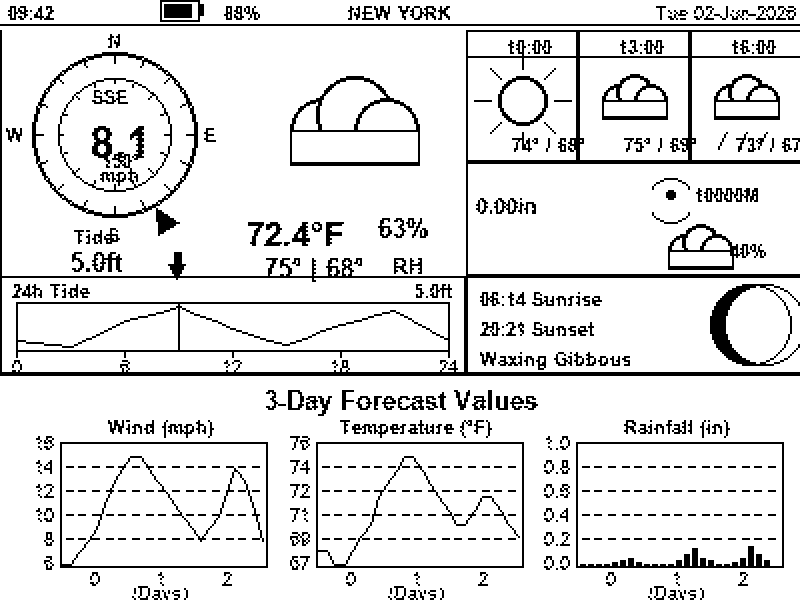
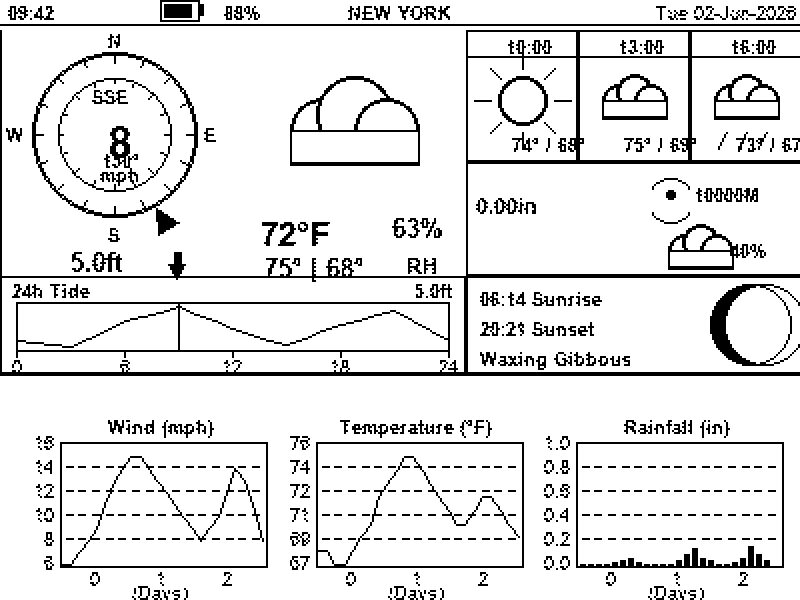
Tighten CrowPanel weather layout

diff --git a/examples/CrowPanel_4_2_Weather_Tides/preview/render_preview.py b/examples/CrowPanel_4_2_Weather_Tides/preview/render_preview.py
@@ -152,7 +152,7 @@ def draw_wind_section(c: Canvas, x: int, y: int, angle: float, speed: float, rad
     c.text(x + radius + 8, y - 5, "E", "B08", "center")
     c.text(x - 2, y - 24, wind_direction(angle), "B08", "center")
     c.text(x + 3, y + 8, f"{angle:.0f}°", "B08", "center")
-    c.text(x + 3, y - 8, f"{speed:.1f}", "B18", "center")
+    c.text(x + 3, y - 8, f"{speed:.0f}", "B18", "center")
     c.text(x + 3, y + 15, "m/s" if units == "M" else "mph", "B08", "center")
 
 
@@ -208,10 +208,10 @@ def draw_main_weather(c: Canvas, data: dict, tide_samples: list[tuple[int, float
     draw_wind_section(c, x - 115, y - 3, w["wind_dir"], w["wind_speed"], 40, units)
     draw_weather_icon(c, x + 5, y - 5, w["icon"], True)
     draw_current_tide_status(c, x - 120, y + 58, data, tide_samples)
-    c.text(x - 25, y + 37, f"{w['temperature']:.1f}°{'C' if units == 'M' else 'F'}", "B14", "center")
+    c.text(x - 25, y + 37, f"{w['temperature']:.0f}°{'C' if units == 'M' else 'F'}", "B14", "center")
     c.text(x - 15, y + 57, f"{w['high']:.0f}° | {w['low']:.0f}°", "B12", "center")
-    c.text(x + 30, y + 37, f"{w['humidity']:.0f}%", "B12", "center")
-    c.text(x + 32, y + 57, "RH", "B10", "center")
+    c.text(x + 37, y + 37, f"{w['humidity']:.0f}%", "B12", "center")
+    c.text(x + 39, y + 57, "RH", "B10", "center")
     c.rect(0, y + 68, 232, 48)
     draw_tide_24h_graph(c, 0, y + 68, 232, 48, data, tide_samples)
 
@@ -219,7 +219,6 @@ def draw_main_weather(c: Canvas, data: dict, tide_samples: list[tuple[int, float
 def draw_current_tide_status(c: Canvas, x: int, y: int, data: dict, tide_samples: list[tuple[int, float]]) -> None:
     hour = data["current_hour"] + data["current_min"] / 60
     height = tide_height_at_hour(tide_samples, hour)
-    c.text(x - 5, y - 15, "Tide", "B08", "center")
     c.text(x - 4, y - 4, f"{height:.1f}ft", "B12", "center")
     draw_tide_arrow(c, x + 36, y + 5, tide_rising(tide_samples, hour))
 
@@ -269,7 +268,6 @@ def draw_forecast_section(c: Canvas, data: dict) -> None:
     for idx, daily in enumerate(data["daily"][:3]):
         draw_forecast_box(c, x + idx * 56, y, daily)
     c.line((0, y + 172, SCREEN_WIDTH, y + 172))
-    c.text(SCREEN_WIDTH // 2, y + 178, "3-Day Forecast Values", "B12", "center")
     hourly = data["hourly"]
     units = data["units"]
     draw_graph(c, 30, 221, SCREEN_WIDTH // 4, SCREEN_HEIGHT // 5, 0, 30, "Wind (m/s)" if units == "M" else "Wind (mph)", hourly["wind"], True, False)